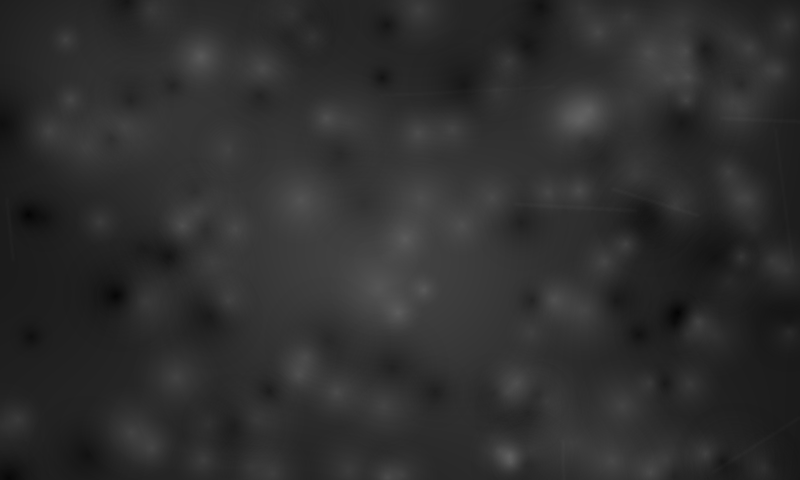
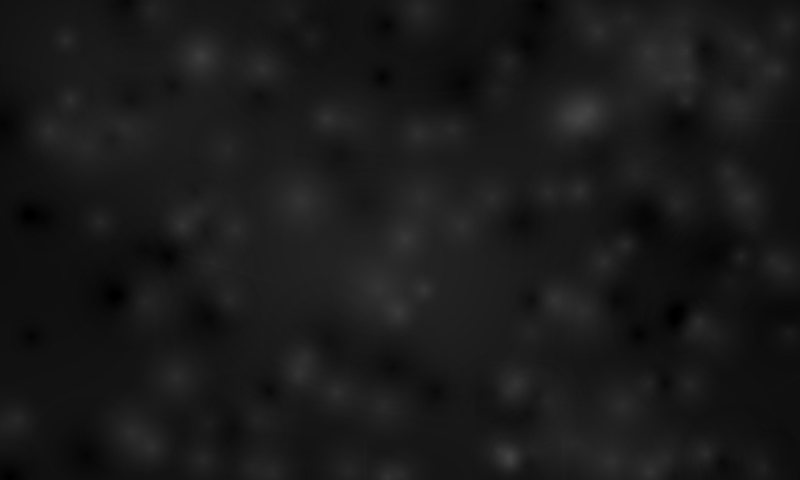
Darken grimdark gunmetal plate so body text stays crisp
The first plate dithered a mid-grey ground (L≈58 ≈ 23% white), scattering
a busy white stipple across the whole panel; the bone-white body glyphs
lost their anti-aliased edges into it after palette-snapping, reading as
fuzzy. Lower the plate's tonal values (centre L≈30 ≈ 12% white, margins
≈6%, blotch/scratch peaks capped lower) so the ground is predominantly
black with sparse weathering — dark gunmetal as intended — restoring crisp
text while keeping the photographic scuff/grime/scratch detail.

https://claude.ai/code/session_01Dp4uiyBV5DsCdFJzkch94B

diff --git a/scripts/generate_grimdark_plate.py b/scripts/generate_grimdark_plate.py
@@ -41,9 +41,16 @@ SEED = 0x28E7  # deterministic re-renders.
 def _gunmetal_ground(w: int, h: int, rng: random.Random) -> Image.Image:
     """Dark charcoal ground with an edge vignette and low-frequency exposure
     mottle, built as continuous-tone greyscale (R=G=B) so the dither has smooth
-    gradients to break into a white/black stipple."""
-    base = 58       # mid-charcoal at the centre
-    edge = 26       # darker toward the plate edges (a vignetted bulkhead)
+    gradients to break into a white/black stipple.
+
+    Kept deliberately *dark* — a white/black Floyd–Steinberg dither paints white
+    with roughly ``L/255`` probability, so a mid-grey base would scatter ~25%
+    white across the whole panel and the bone-white body text would lose its
+    edges into that stipple. A low base (centre L≈30 ≈ 12% white, margins ≈6%)
+    reads as dark gunmetal and leaves the quote crisp; only scuffs lift far from
+    the void."""
+    base = 30       # dark charcoal at the centre (~12% white after dithering)
+    edge = 15       # darker toward the plate edges (a vignetted bulkhead)
     img = Image.new("L", (w, h))
     px = img.load()
     cx, cy = w / 2, h / 2
@@ -51,7 +58,7 @@ def _gunmetal_ground(w: int, h: int, rng: random.Random) -> Image.Image:
     # A few broad sinusoids with random phase so the sheet reads as unevenly
     # lit rolled steel rather than a flat fill.
     waves = [(rng.uniform(0.5, 1.6) / w, rng.uniform(0.5, 1.6) / h,
-              rng.uniform(0, math.tau), rng.uniform(6, 14)) for _ in range(4)]
+              rng.uniform(0, math.tau), rng.uniform(4, 9)) for _ in range(4)]
     for y in range(h):
         for x in range(w):
             d = math.hypot(x - cx, y - cy) / maxd          # 0 centre .. 1 corner
@@ -60,7 +67,7 @@ def _gunmetal_ground(w: int, h: int, rng: random.Random) -> Image.Image:
             for fx, fy, ph, amp in waves:
                 mott += amp * math.sin(x * fx * math.tau + ph) * math.sin(y * fy * math.tau + ph)
             tone = base * (1 - v) + edge * v + mott * 0.5
-            px[x, y] = max(0, min(120, int(tone)))
+            px[x, y] = max(0, min(70, int(tone)))
     return img
 
 
@@ -79,7 +86,7 @@ def _blotches(img: Image.Image, rng: random.Random) -> None:
         # ~1/3 darken (grime), the rest lighten (scuff). Scuffs are stronger so
         # the eye reads bright metal where the plate has been rubbed.
         darken = rng.random() < 0.34
-        peak = rng.uniform(14, 30) if not darken else rng.uniform(10, 22)
+        peak = rng.uniform(12, 26) if not darken else rng.uniform(8, 18)
         br2 = br * br
         x0, x1 = max(0, bx - br), min(w - 1, bx + br)
         y0, y1 = max(0, by - br), min(h - 1, by + br)
@@ -93,7 +100,7 @@ def _blotches(img: Image.Image, rng: random.Random) -> None:
                 falloff = 1.0 - (d2 ** 0.5) / br
                 delta = peak * falloff * falloff
                 v = px[x, y]
-                px[x, y] = max(0, min(150, int(v - delta if darken else v + delta)))
+                px[x, y] = max(0, min(90, int(v - delta if darken else v + delta)))
 
 
 def _scratches(img: Image.Image, rng: random.Random) -> None:
@@ -110,7 +117,7 @@ def _scratches(img: Image.Image, rng: random.Random) -> None:
         length = rng.randint(120 * SS // 2, 360 * SS // 2)
         x1 = x0 + int(math.cos(angle) * length)
         y1 = y0 + int(math.sin(angle) * length)
-        ld.line((x0, y0, x1, y1), fill=rng.randint(40, 80), width=max(1, SS // 2))
+        ld.line((x0, y0, x1, y1), fill=rng.randint(28, 52), width=max(1, SS // 2))
     layer = layer.filter(ImageFilter.GaussianBlur(radius=1.4 * SS))
     base = img.load()
     sp = layer.load()
@@ -118,7 +125,7 @@ def _scratches(img: Image.Image, rng: random.Random) -> None:
         for x in range(w):
             s = sp[x, y]
             if s:
-                base[x, y] = min(150, base[x, y] + s // 2)
+                base[x, y] = min(90, base[x, y] + s // 3)
 
 
 def main() -> int:
